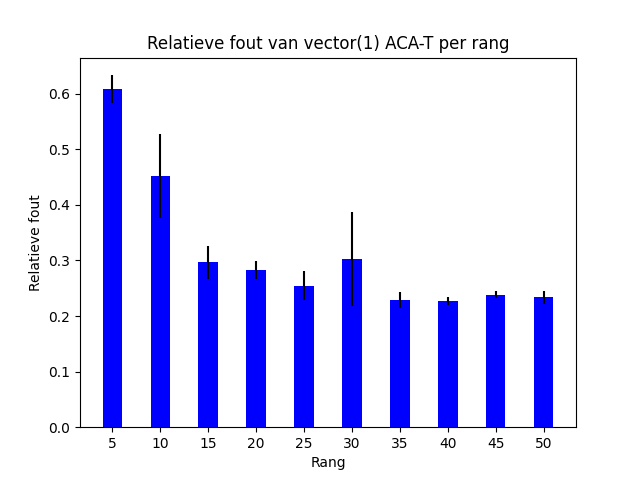
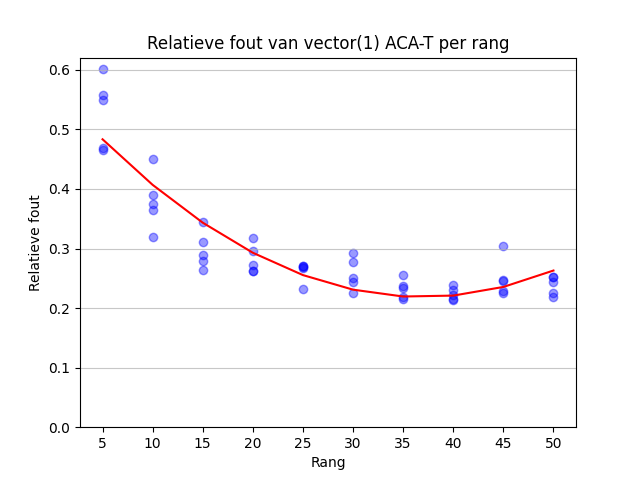
Added different plot types

diff --git a/scripts/figs.py b/scripts/figs.py
@@ -4,7 +4,7 @@ import numpy as np
 import matplotlib.pyplot as plt
 import statistics as stat
 
-def plot_rel_err(method, ranks=range(5,51, 5), repeat=50, max_approx=None):
+def plot_rel_err(method, ranks=range(5,51, 5), repeat=50, max_approx=None, ptype='bar', color='blue'):
     '''
     Plot relative error for different ranks of decomposition.
     :param method: decomposition function
@@ -19,32 +19,47 @@ def plot_rel_err(method, ranks=range(5,51, 5), repeat=50, max_approx=None):
     t_norm = np.linalg.norm(tensor)
 
     x_pos = len(ranks)
-    avgs = []
-    stdevs = []
+    data = []
 
     for rank in ranks:
         print(f'rank {rank}')
         rel_errs = []
         for i in range(repeat):
-            print(f'-', end="")
             if method == matrix_aca_t:
                 dp = method(tensor, rank)
             else:
                 dp = method(tensor, rank, max_approx)
             rel_errs.append(np.linalg.norm(tensor-dp.full_tensor())/t_norm)
+            print('<' + i*'#' + (repeat-i)*'-' + '>', end='\r')
+        data.append(rel_errs)
 
-        avgs.append(stat.mean(rel_errs))
-        stdevs.append(stat.stdev(rel_errs))
+        print(f' avg norm = {round(stat.mean(rel_errs), 3)} | stdev = {round(stat.stdev(rel_errs), 3)}')
 
-        print(f'rank {rank} with norm = {avgs[-1]} | stdev = {stdevs[-1]}')
+    fig, ax = plt.subplots()
 
-    if method == matrix_aca_t:
-        c = 'orange'
+    if ptype == 'bar':
+        avgs = map(stat.mean, data)
+        stdevs = map(stat.stdev, data)
+        plt.bar(ranks, avgs, width=2, yerr=stdevs, color=color)
+    elif ptype == 'violin':
+        vp = ax.violinplot(data, ranks, widths=3.5, showmeans=True)
+        for body in vp['bodies']:
+            body.set_alpha(0.5)
+    elif ptype == 'box':
+        plt.boxplot(data, positions=ranks, widths=3.2)
+    elif ptype == 'scatter':
+        xs = sum(map(lambda x : repeat*[x], ranks), [])
+        ys = sum(data, [])
+        plt.scatter(xs, ys, alpha=0.4, color=color)
+    elif ptype == 'scatter-poly':
+        xs = sum(map(lambda x : repeat*[x], ranks), [])
+        ys = sum(data, [])
+        plt.scatter(xs, ys, alpha=0.4, color=color)
+        coeffs = np.polyfit(xs, ys, 3) # polynomial of degree 3
+        poly = np.poly1d(coeffs)
+        plt.plot(ranks, poly(ranks), color='red')
     else:
-        c = 'blue'
-
-    plt.subplots()
-    plt.bar(ranks, avgs, width=2, yerr=stdevs, color=c)
+        raise Exception('Plot type not recognized.')
 
     plt.xlabel('Rang')
     plt.ylabel('Relatieve fout')
@@ -55,6 +70,8 @@ def plot_rel_err(method, ranks=range(5,51, 5), repeat=50, max_approx=None):
         d = ''
     plt.title(f'Relatieve fout van {method.__name__[0:6]}{d} ACA-T per rang')
     plt.xticks(ranks)
+    plt.grid(axis='y', alpha=0.7)
+    plt.ylim(bottom=0)
 
     plt.savefig(f'figures/rel_fout_{method.__name__}{d}(rpt{repeat})(rnk{ranks[-1]}).png')
     plt.show()
@@ -63,5 +80,6 @@ def plot_rel_err_per_rel_dtw():
     #TODO
     pass
 
-# plot_rel_err(matrix_aca_t, ranks=range(5,51,5), repeat=5)
-plot_rel_err(vector_aca_t, ranks=range(5, 51, 5), repeat=5, max_approx=1)
+# plot_rel_err(matrix_aca_t, ranks=range(5,51,5), repeat=5, ptype='bar', color='orange')
+#plot_rel_err(vector_aca_t, ranks=range(5, 51, 5), repeat=5, max_approx=1, ptype='bar', color='blue')
+plot_rel_err(vector_aca_t, ranks=range(5, 31, 5), repeat=5, max_approx=1, ptype='scatter-poly', color='blue')

diff --git a/scripts/aca.py b/scripts/aca.py
@@ -38,8 +38,8 @@ print(test_matrix)
 print(test_matrix2)
 
 for i in range(1, 6):
-    decomp, _ = aca(test_matrix, i)
-    decomp2, _ = aca(test_matrix2, i)
+    decomp = aca(test_matrix, i)
+    decomp2 = aca(test_matrix2, i)
 
     print(f'rank {i} with norm = {np.linalg.norm(test_matrix - decomp.full_matrix()) / np.linalg.norm(test_matrix)}')
     print(test_matrix - decomp.full_matrix())
